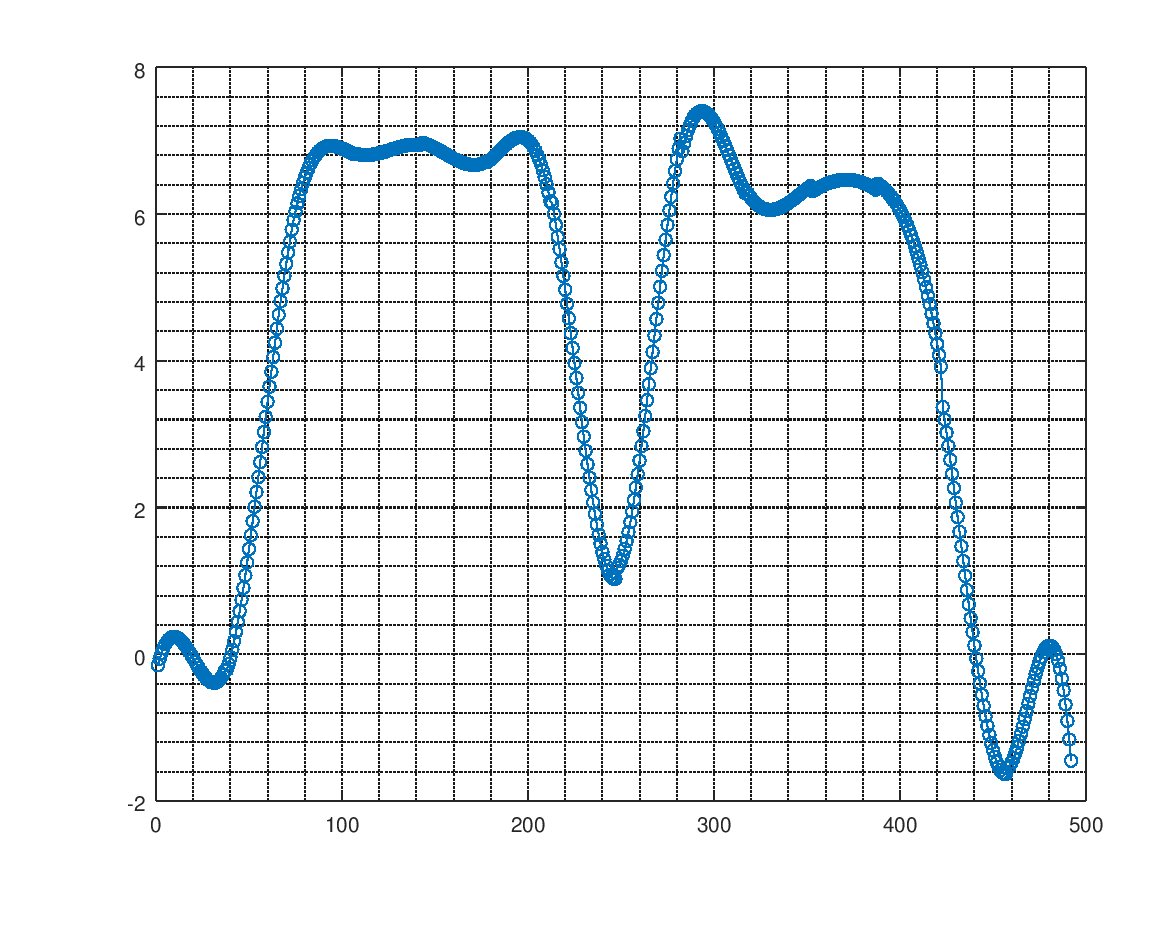
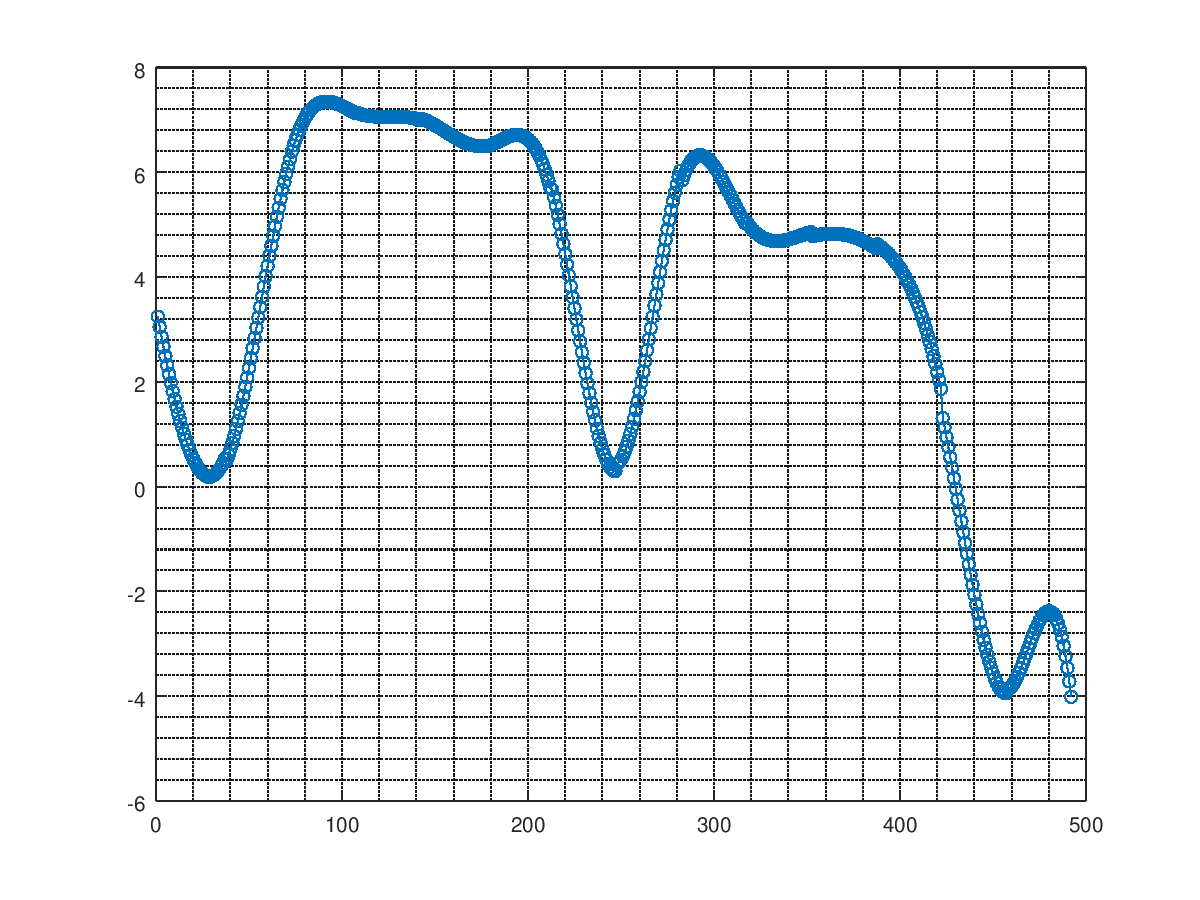
melhorando codigo que calcula a curva

Changed region(s): [[0.0925, 0.0622, 0.9563, 0.9333]]

diff --git a/mcode/lib-mcode/LineDetector/curve_lms_poly_spline.m b/mcode/lib-mcode/LineDetector/curve_lms_poly_spline.m
@@ -1,29 +1,31 @@
 % Dado Una imagen binaria calcula un conjunto de polinomios con menor error LMS, 
 % por tramos usando polinomios de grado L dividiento la curva en partes NPARTS. retorna 
 % dos vectores optimos XOPT e YOPT.
-        function [XOPT YOPT] = curve_lms_poly_spline(IMG_BIN,L,NPARTS,varargin)
+        function [XOPT YOPT] = curve_lms_poly_spline(   IMG_BIN, ...         %% Imagen binaria
+                                                        %L, ...               %% polinomies order
+                                                        NPARTS, ...          %% Parts of curve
+                                                        CUMULUSON=false, ... %% Active cumulus algorithm 
+                                                        LEVEL=1, ...         %% Level o analysis 
+                                                        varargin)            %% 
 
             XOPT=0; 
             YOPT=0;
             NCOL=size(IMG_BIN,2);
 
-            CUMULUSON=false;
-            if(nargin>3)
-                CUMULUSON=varargin{1};
-            end
 
-            LEVEL=1;
-            if(nargin>4)
-                LEVEL=varargin{2};
-            end
 
             %%%%%%%%%%%%%%%%%%%%%%%%%%%%%%%%%%%%%%%%%%%%%%%%%%
-            %% obtenndo unos (XS,YS)
+            %% obtenndo unos (XS,YS), todos os pixels brancos
+            %% retorna um vetor coluna para XS e YS.
             disp('Obtendo unos (XS,YS) ...');
             [YS,XS] = find(IMG_BIN);
+            %%%%%%%%%%%%%%%%%%%%%%%%%%%%%%%%%%%%%%%%%%%%%%%%%%
+
 
             %%%%%%%%%%%%%%%%%%%%%%%%%%%%%%%%%%%%%%%%%%%%%%%%%%
-            %% obtend pesos de uns WS
+            %% Obtendo pesos de uns WS, 
+            %% o peso de todos os pixels brancos.
+            %% retorna um vetor coluna para WS.
             WS=zeros(size(XS));
             N=length(WS);
             if(CUMULUSON==true)
@@ -39,19 +41,42 @@
                     WS(II)=1.0;
                 endfor
             end
+            %%%%%%%%%%%%%%%%%%%%%%%%%%%%%%%%%%%%%%%%%%%%%%%%%%
 
             %%%%%%%%%%%%%%%%%%%%%%%%%%%%%%%%%%%%%%%%%%%%%%%%%%
-            %% obtenndo polinomios para os intervalos (XS)
+            %% obtenndo polinomio P(II,:) para o intervalos XINT
             disp('Obtendo Splines 3r ordem (P,XINT) ...');
             [P XINT]=lms_splines3(XS/NCOL,YS,NPARTS,WS,LEVEL);
-    
+            %%%%%%%%%%%%%%%%%%%%%%%%%%%%%%%%%%%%%%%%%%%%%%%%%%
+
+            plot_polinomios(IMG_BIN,P,XINT);
+   
             %%%%%%%%%%%%%%%%%%%%%%%%%%%%%%%%%%%%%%%%%%%%%%%%%%
             %% Avaliando polinomios no intervalos
             disp('Avaliando Splines 3r ordem (P,XINT) ...');
             XOPT=[1:NCOL];
             YOPT = eval_splines(P,XINT,XOPT/NCOL);
         
-        end
+        endfunction
+
+        function plot_polinomios(IMG_BIN,P,XINT)
+            M=size(XINT,1);
+            WW=size(IMG_BIN,2);
+
+            L=10;
+            XVAR=zeros(M,L);
+            YVAR=zeros(M,L);
+
+            for II=1:M
+                XVAR(II,:)=linspace( XINT(II,1),XINT(II,2),L);
+                YVAR(II,:)=polyval(P(II,:),XVAR(II,:));
+            endfor
+
+            imagesc(IMG_BIN);
+            hold on;
+            plot((XVAR*WW)',YVAR','-o');
+            hold off;
+        endfunction
 
 
 

diff --git a/mcode/lib-mcode/splines3/lms_splines3.m b/mcode/lib-mcode/splines3/lms_splines3.m
@@ -1,10 +1,10 @@
-function [P XINT]=lms_splines3(X,Y,NPARTS,varargin)
+function [P XINT]=lms_splines3(X,Y,NPARTS,WS,LEVEL)
 
 
     % Lee y ordena parametros de entrada
     % W es el peso de (X,Y)
     % LEVEL es si se usara continuidade de 0, 1 o 2 derivada
-    [X Y W LEVEL]=check_parameters(X,Y,NPARTS,varargin{:});
+    [X Y W LEVEL]=check_parameters(X,Y,NPARTS,WS,LEVEL);
 
     % Agrupa en intervalos XINT
     % Retorna Xs datos X por grupos, son NPARTS grupos    
@@ -29,6 +29,8 @@ function [P XINT]=lms_splines3(X,Y,NPARTS,varargin)
     % 0=A2*p
     [Y2 A2 C2]=generate_values_2(Xs,Ys,Ws,XINT);
 
+    SIZEP=size(Az,2);
+
     %%%%%%%%%%%%%%%%%
     At=[Az;A0;A1;A2];
     Yt=[Yz;Y0;Y1;Y2];
@@ -42,7 +44,7 @@ function [P XINT]=lms_splines3(X,Y,NPARTS,varargin)
         C=diag([Cz;C0;C1;C2]);
     end
 
-    p=inv(At'*C*At)*At'*C*Yt;
+    p=inv(At'*C*At+0.00001*eye(SIZEP))*At'*C*Yt;
     EE=sqrt(meansq(Yt-At*p));
     pmin=p;
     EEmin=EE;
@@ -50,9 +52,9 @@ function [P XINT]=lms_splines3(X,Y,NPARTS,varargin)
     E=100;
     ITER=0;
     disp('SOLVING LMS CUBIC SPLINES: Please wait ...');
-    while (E>=0.01)&&(ITER<3000)
+    while (E>=0.01)&&(ITER<10000)
         plast=p;
-        p=p+inv(At'*C*At+0.00001*eye(length(p)))*At'*C*(Yt-At*p);
+        p=p+inv(At'*C*At+0.00001*eye(SIZEP))*At'*C*(Yt-At*p);
 
         E=100*max(abs(p-plast))/min(abs(p(abs(p) > 0)));% mean(abs(p));
 
@@ -82,6 +84,7 @@ function [P XINT]=lms_splines3(X,Y,NPARTS,varargin)
 
 endfunction
 
+%%%%%%%%%%%%%%%%%%%%%%%%%%%%%%%%%%%%%%%%%%%%%%%%%%%%%%%%%%%%%%%%%%%%%%%%%%%%%%%%
 function [Yz Az Cz]=generate_values_z(Xs,Ys,Ws)
 
     NPARTS=size(Xs,1);
@@ -113,6 +116,7 @@ function [Yz Az Cz]=generate_values_z(Xs,Ys,Ws)
 
 endfunction
 
+%%%%%%%%%%%%%%%%%%%%%%%%%%%%%%%%%%%%%%%%%%%%%%%%%%%%%%%%%%%%%%%%%%%%%%%%%%%%%%%%
 function [Y0 A0 C0]=generate_values_0(Xs,Ys,Ws,XINT)
 
     NPARTS=size(Xs,1);
@@ -140,6 +144,7 @@ function [Y0 A0 C0]=generate_values_0(Xs,Ys,Ws,XINT)
 
 endfunction
 
+%%%%%%%%%%%%%%%%%%%%%%%%%%%%%%%%%%%%%%%%%%%%%%%%%%%%%%%%%%%%%%%%%%%%%%%%%%%%%%%%
 function [Y1 A1 C1]=generate_values_1(Xs,Ys,Ws,XINT)
 
     NPARTS=size(Xs,1);
@@ -167,7 +172,7 @@ function [Y1 A1 C1]=generate_values_1(Xs,Ys,Ws,XINT)
 
 endfunction
 
-
+%%%%%%%%%%%%%%%%%%%%%%%%%%%%%%%%%%%%%%%%%%%%%%%%%%%%%%%%%%%%%%%%%%%%%%%%%%%%%%%%
 function [Y2 A2 C2]=generate_values_2(Xs,Ys,Ws,XINT)
 
     NPARTS=size(Xs,1);
@@ -195,6 +200,7 @@ function [Y2 A2 C2]=generate_values_2(Xs,Ys,Ws,XINT)
 
 endfunction
 
+%%%%%%%%%%%%%%%%%%%%%%%%%%%%%%%%%%%%%%%%%%%%%%%%%%%%%%%%%%%%%%%%%%%%%%%%%%%%%%%%
 function [Xs Ys XINT Ws]=generate_Xs_Ys_XINT(X,Y,NPARTS,W)
 
 
@@ -225,6 +231,7 @@ function [Xs Ys XINT Ws]=generate_Xs_Ys_XINT(X,Y,NPARTS,W)
     endfor
 endfunction
 
+%%%%%%%%%%%%%%%%%%%%%%%%%%%%%%%%%%%%%%%%%%%%%%%%%%%%%%%%%%%%%%%%%%%%%%%%%%%%%%%%
 function [X Y W LEVEL]=check_parameters(X,Y,NPARTS,varargin)
 
     if(~isvector(X))

diff --git a/mcode/lib-mcode/LineDetector/LineDetector.m b/mcode/lib-mcode/LineDetector/LineDetector.m
@@ -21,10 +21,10 @@ classdef LineDetector  < handle
             %obj.IMG_BIN = imsmooth(1.0*obj.IMG_BIN,'Gaussian',1.1);
             %obj.IMG_BIN=(obj.IMG_BIN>0.75);
 
-            %% Spline reconstruccin
+            %% Spline reconstruction
             obj.CUMULUSON=true;
 
-            %% Spline reconstruccin
+            %% Spline reconstruction
             obj.ORDER=5;
             obj.PARTS=8;
             obj.LEVEL=1;
@@ -32,9 +32,13 @@ classdef LineDetector  < handle
         end
 
         %% Calcula la curva provocada por el objeto
-        function [XOPT YOPT]=calculates_curve(obj)
+        function [XOPT YOPT]=calculates_curve(obj,varargin)
             
-            [XOPT YOPT]=curve_lms_poly_spline(obj.IMG_BIN,obj.ORDER,obj.PARTS,obj.CUMULUSON,obj.LEVEL);
+            [XOPT YOPT]=curve_lms_poly_spline(  obj.IMG_BIN, ...    %% Imagen binaria
+                                                %obj.ORDER, ...      %% polinomies order
+                                                obj.PARTS, ...      %% Parts of curve
+                                                obj.CUMULUSON, ...  %% Active cumulus algorithm 
+                                                obj.LEVEL);         %% Level o analysis 
 
         end
 
@@ -44,7 +48,7 @@ classdef LineDetector  < handle
         %% XREF == X
         function [XREF YREF]=calculates_curve_ref(obj,X)
 
-            figure;
+            %figure;
             image(obj.IMG_BIN*255)
 
             lin=0;col=0;

diff --git a/mcode/teste.m b/mcode/teste.m
@@ -12,35 +12,25 @@ IMAGEPATH='../images/8 bits/4cd.bmp';
 
 %%%%%%%%%%%%%%%%%%%%%%%%%%%%%%%%%%%%%%%%%%%%%%%%%%%%%%%%%%%%%%%%%%%%%%%%%%%%%%%%
 
-%% STEP 0
-IMG = imread(IMAGEPATH);
-
-if(length(size(IMG))==3)
-    error('The image should be a binary image. The image has > 1 layers');
-endif
-
-IMG = IMG/max(max(IMG));
-if(max(max(IMG))>1)
-    error('The image should be a binary image. max pixel value > 1');
-endif
-
-if(min(min(IMG))<0)
-    error('The image should be a binary image. max pixel value <0');
-endif
-
-IMG_BIN=IMG>0.5;
-
 %% STEP 1
-R = LineDetector(IMG_BIN);
+IMG = imread(IMAGEPATH);
+IMG_BIN=function_check_binary_image(IMG);
+figure(1);
+imagesc(IMG_BIN); colormap(jet);
 
 %% STEP 2
-R.set_reconstruction_parts(14);
-R.set_reconstruction_level(0);
-[X Y]=R.calculates_curve();
+R = LineDetector(IMG_BIN);      %% Crio um line detector R
+R.set_reconstruction_parts(14); %% Estabelecer em quantas partes será reconstruido
+R.set_reconstruction_level(0);  %% Estabelecer o nivel de reconstrução
+figure(2);
+[X Y]=R.calculates_curve();     %% detetar pontos da curva
 
 %% STEP 3 (FINAL)
+figure(3);
 [XREF YREF]=R.calculates_curve_ref(X);
+colormap(jet);
 
 %%%%%%%%%%%%%%%%%%%%%%%%%%%%%%%%%%%%%%%%%%%%%%%%%%%%%%%%%%%%%%%%%%%%%%%%%%%%%%%%
 msgbox ('End');
+figure(4);
 plot_all_results(IMAGEPATH,IMG_BIN,XREF,YREF,X,Y);

diff --git a/mcode/testemultiple.m b/mcode/testemultiple.m
@@ -1,0 +1,22 @@
+%
+pkg load image
+clear all
+close all
+addpath(genpath('lib-mcode'))
+
+%%%%%%%%%%%%%%%%%%%%%%%%%%%%%%%%%%%%%%%%%%%%%%%%%%%%%%%%%%%%%%%%%%%%%%%%%%%%%%%%
+%% Só modifica aquí
+%%%%%%%%%%%%%%%%%%%%%%%%%%%%%%%%%%%%%%%%%%%%%%%%%%%%%%%%%%%%%%%%%%%%%%%%%%%%%%%%
+N=21;
+
+
+IMG_REF = imread('../images/placa1/0.jpg (green).bmp');
+IMG_REF =function_check_binary_image(IMG_REF);
+
+for II=(13+[1:N])
+    IMG_OBJ{II}=imread(['../images/placa1/' num2str(II) '.jpg (green).bmp']);
+    IMG_OBJ{II}=function_check_binary_image(IMG_OBJ{II});
+end
+
+%%%%%%%%%%%%%%%%%%%%%%%%%%%%%%%%%%%%%%%%%%%%%%%%%%%%%%%%%%%%%%%%%%%%%%%%%%%%%%%%
+

diff --git a/mcode/lib-mcode/Tools/function_check_binary_image.m b/mcode/lib-mcode/Tools/function_check_binary_image.m
@@ -1,0 +1,24 @@
+function IMG_BIN=function_check_binary_image(IMG)
+
+    if(length(size(IMG))==3)
+        error('The image should be a binary image. The image has > 1 layers');
+    endif
+
+    MAXIMO=max(max(IMG)); 
+    if(MAXIMO==0)
+        error('The image do not have white pixels');
+    endif
+
+    IMG_BIN = IMG/MAXIMO;
+
+    if(max(max(IMG))>1)
+        error('The image should be a binary image. max pixel value > 1');
+    endif
+
+    if(min(min(IMG))<0)
+        error('The image should be a binary image. max pixel value <0');
+    endif
+
+   
+    IMG_BIN=(IMG_BIN>0.5);
+endfunction

diff --git a/mcode/lib-mcode/Tools/plot_all_results.m b/mcode/lib-mcode/Tools/plot_all_results.m
@@ -13,7 +13,7 @@ function plot_all_results(IMAGEPATH,IMG_BIN,XREF,YREF,X,Y)
     %%%%%%%%%%%%%%%%%%%%%%%%%%%%%%%%%%%%%%%%%%%%%%%%%%%%%%%%%%%%%%%%%%%%%%%%%%%%%%%%
     %%%%%%%%%%%%%%%%%%%%%%%%%%%%%%%%%%%%%%%%%%%%%%%%%%%%%%%%%%%%%%%%%%%%%%%%%%%%%%%%
 
-    figure;
+    %figure;
     imagesc(IMG_BIN)
     hold on
         plot(X,Y,'-s');
